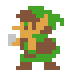
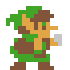
reverse sprite

diff --git a/src/scenes/sprites.ts b/src/scenes/sprites.ts
@@ -1,0 +1,15 @@
+import Game from "./Game";
+import { hasPlayerTouchedWallRecently } from "./movement";
+
+export function updateSprites(game: Game): void {
+  game.players.forEach((player) => {
+    if (!hasPlayerTouchedWallRecently(player)) {
+      if (player.char.sprite.body.velocity.x == 0) {
+      } else if (player.char.sprite.body.velocity.x > 0) {
+        player.char.sprite.scaleX = 1;
+      } else {
+        player.char.sprite.scaleX = -1;
+      }
+    }
+  });
+}

diff --git a/src/scenes/update.ts b/src/scenes/update.ts
@@ -17,6 +17,7 @@ import {
   updateLastDirectionTouched,
   hasPlayerTouchedWallRecently,
 } from "./movement";
+import { updateSprites } from "./sprites";
 
 import { setState } from "./state";
 
@@ -34,6 +35,7 @@ export function update(game: Game): void {
   );
   assignConnectedGamePads(game);
   updateWallTouchArray(game);
+  updateSprites(game);
   game.players.forEach((player, index) => {
     updateLastDirectionTouched(player);
     // printAllPadsActive(player, game);

diff --git a/src/scenes/gamePad.ts b/src/scenes/gamePad.ts
@@ -132,6 +132,7 @@ export function controllerMovement(player: Player, game: Game): void {
     // return;
   }
   if (player.pad.right) {
+
     player.char.sprite.body.setVelocityX(
       player.char.sprite.body.velocity.x *
         Math.pow(player.char.friction_air, 4) +

diff --git a/src/PhaserGame.ts b/src/PhaserGame.ts
@@ -9,7 +9,7 @@ const config: Phaser.Types.Core.GameConfig = {
   pixelArt: false,
   type: Phaser.AUTO,
   parent: "phaser-container",
-  backgroundColor: "#005577",
+  backgroundColor: "#0077dd",
   input: {
     gamepad: true,
   },
